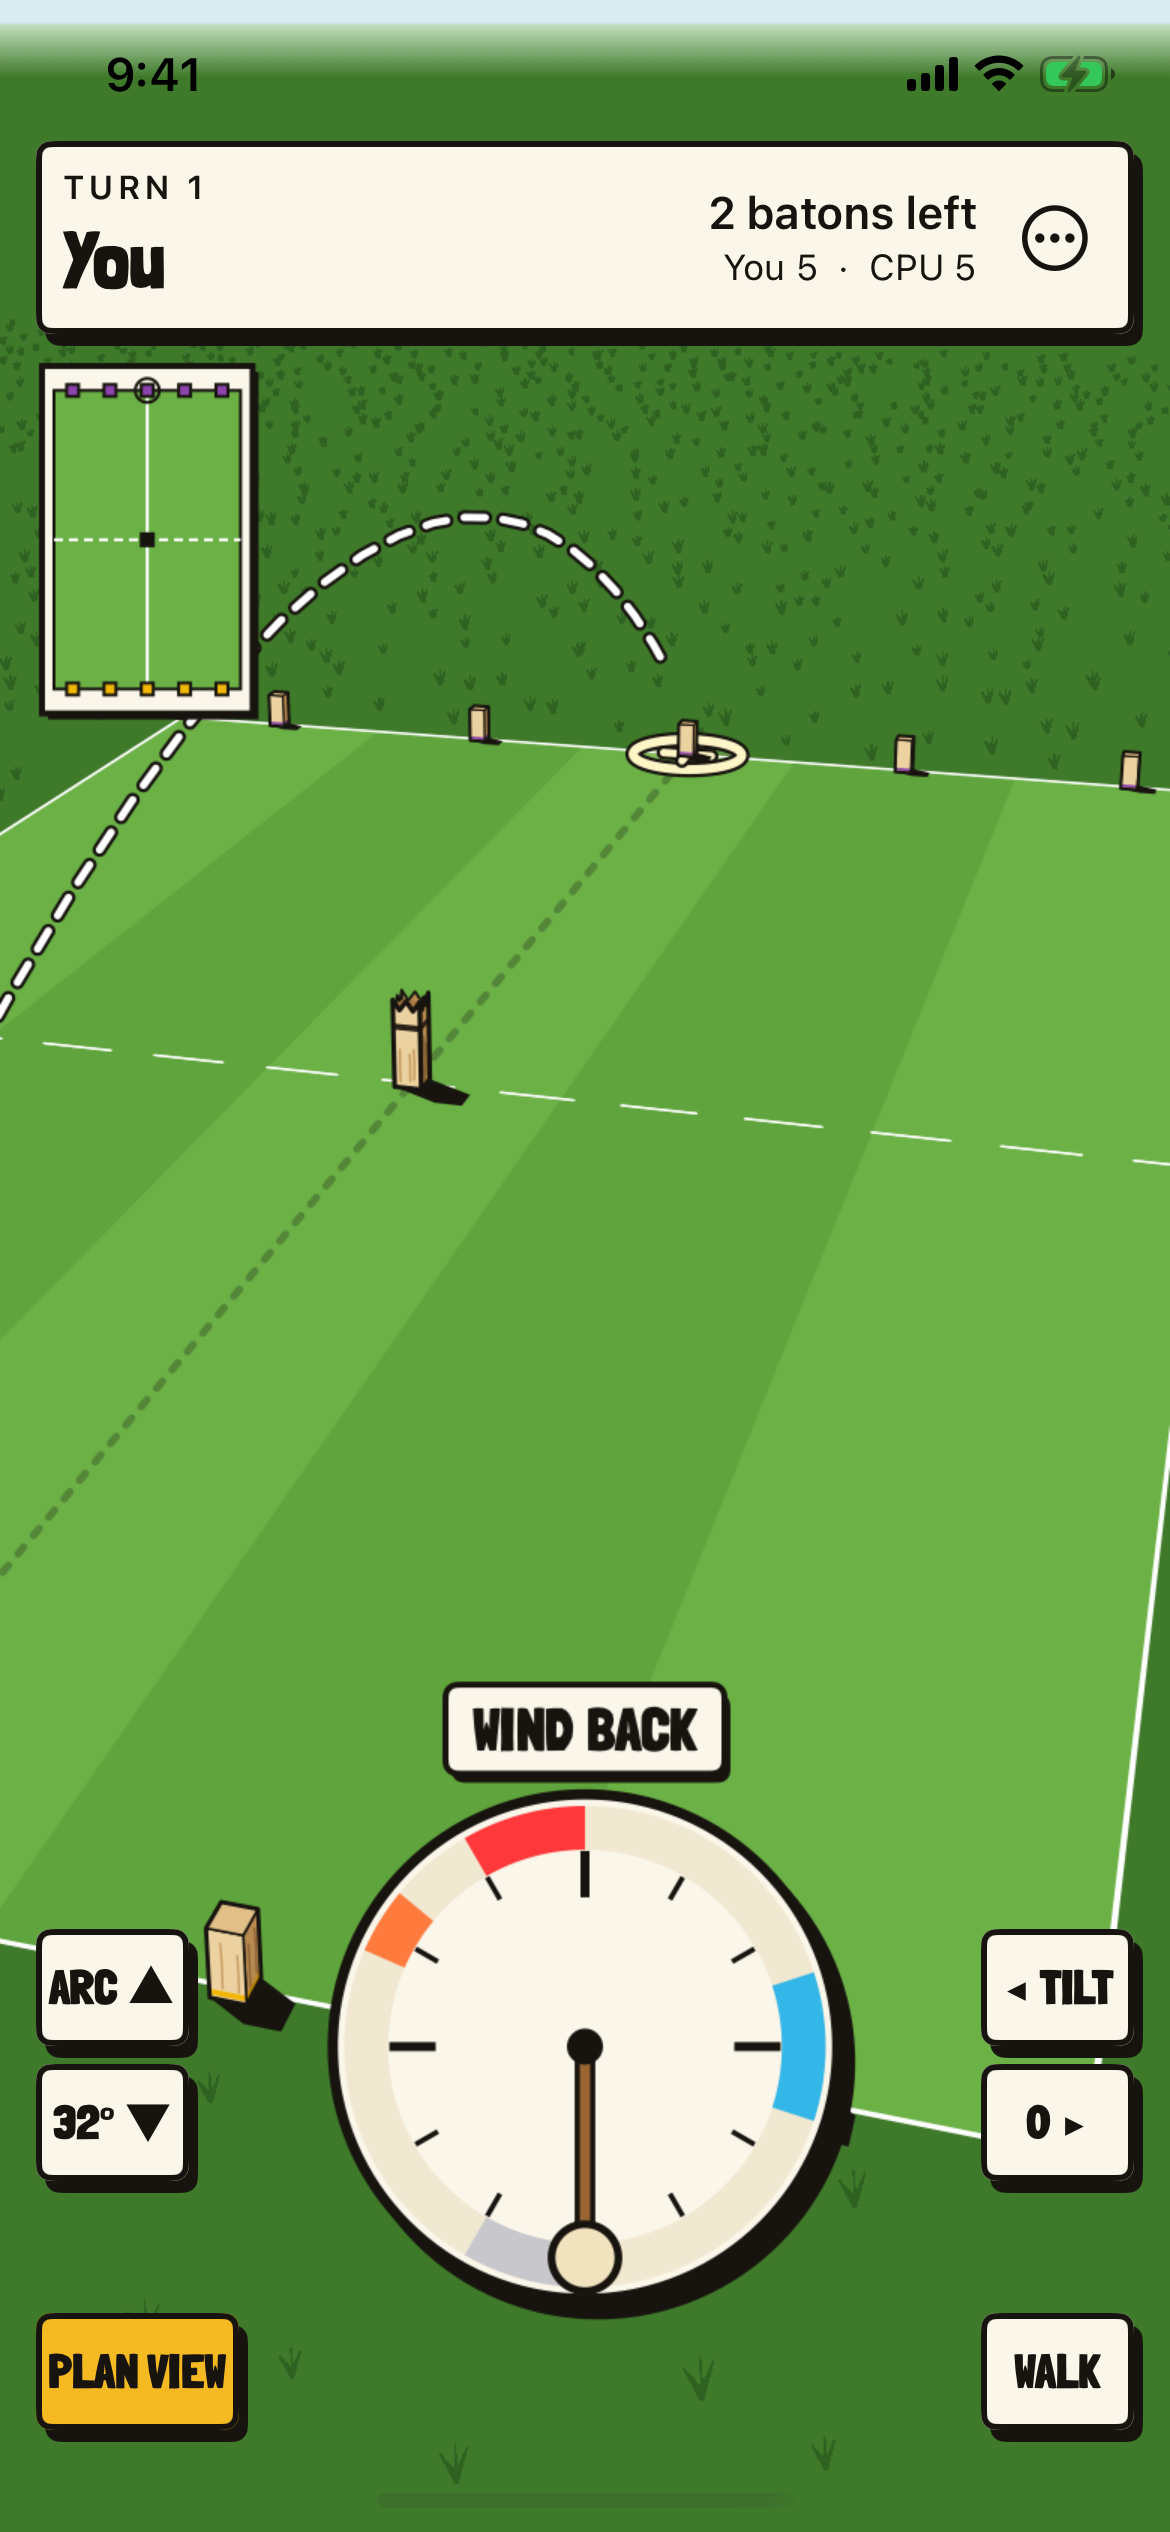
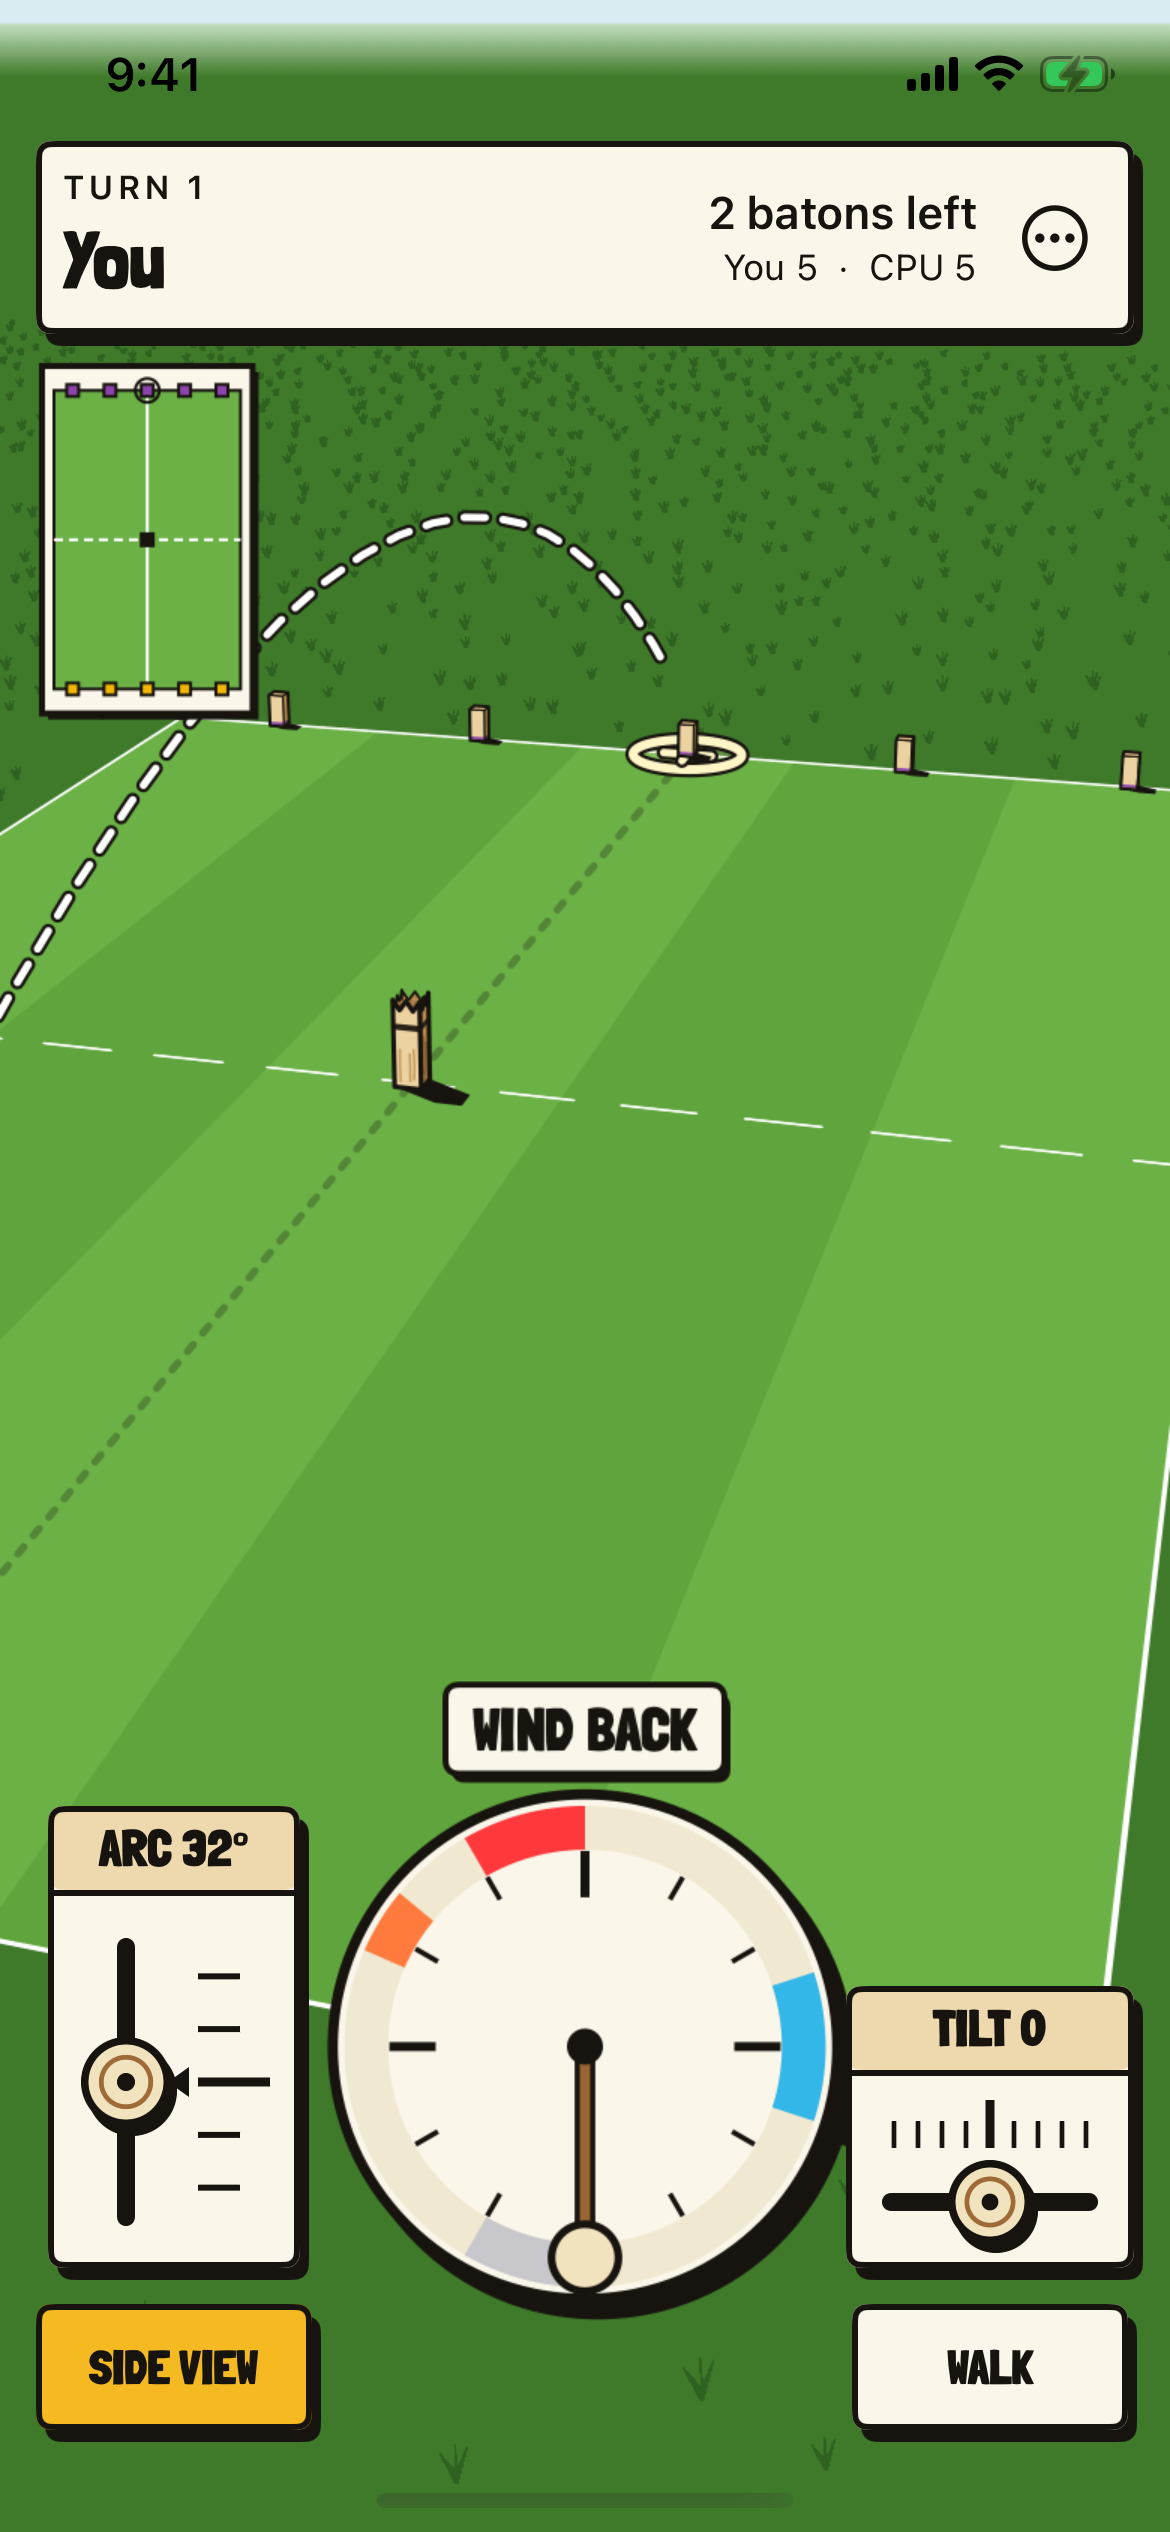
Review pictures for the new controls
New: arc and tilt held (side view, caption, leaning baton) and the raise
card with two to go, raising automatically and AUTO ALL, on both review
phones. Updated: aim, side view, raise and the solo and online menus.

Changed region(s): [[0.0308, 0.6864, 0.2769, 0.9672], [0.7077, 0.7488, 0.9846, 0.9672]]

diff --git a/tools/solo-snapshots.py b/tools/solo-snapshots.py
@@ -11,7 +11,8 @@ import time
 ROOT = Path(__file__).resolve().parents[1]
 MODES = {
     "home": None, "options": None, "menu": "aim", "verdict": "aim", "handoff": "aim", "aim": "aim", "plan": "aim",
-    "flight": "aim", "raise": "raise", "punish": "punish", "computer": "computer",
+    "arc": "aim", "tilt": "aim", "flight": "aim", "raise": "raise", "raisemany": "raise-many",
+    "raiseauto": "raise-many", "raiserest": "raise-many", "punish": "punish", "computer": "computer",
     "winner": "over", "sheet": "over",
 }
 APP = "com.throwingwood.app"
